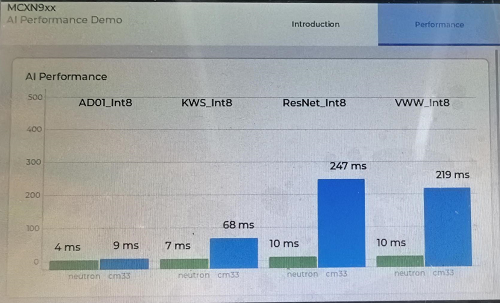
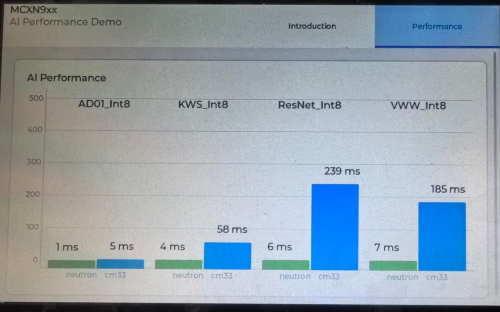
[Fix]: 1. Exclude the model initialization time from the inference time calculation. 2. Update the README.md based on latest result. 3. Enable PRINTF_ADVANCED_ENABLE to improve the PRINTF function. 4. Fix the project configuration issue. [Update]: 1. Update dm-mcxn947-npu-vs-tensorflm-benchmark.xml.

diff --git a/source/model/model.cpp b/source/model/model.cpp
@@ -25,6 +25,7 @@ limitations under the License.
 #include "fsl_debug_console.h"
 #include "model.h"
 #include "model_data.h"
+#include "timer.h"
 
 static const tflite::Model* s_model = nullptr;
 static tflite::MicroInterpreter* s_interpreter = nullptr;
@@ -88,7 +89,7 @@ status_t MODEL_Init(void)
     return kStatus_Success;
 }
 
-status_t MODEL_Invoke(const uint8_t* model_data)
+status_t MODEL_Invoke(const uint8_t* model_data, uint32_t *during)
 {
 
     s_model = tflite::GetModel(model_data);
@@ -118,12 +119,15 @@ status_t MODEL_Invoke(const uint8_t* model_data)
 
     // Get information about the memory area to use for the model's input.
     inputTensor = interpreter.input(0);
-
+    uint32_t startTime = TIMER_GetTimeInUS();
     if (interpreter.Invoke() != kTfLiteOk)
     {
         PRINTF("Invoke failed!\r\n");
         return kStatus_Fail;
     }
+    uint32_t endTime = TIMER_GetTimeInUS();
+
+    *during = endTime - startTime;
 
     return kStatus_Success;
 }

diff --git a/source/ml_perf.c b/source/ml_perf.c
@@ -104,16 +104,15 @@ int run_model(uint8_t id, bool show_profile)
     model_data = mlperf_models[id];
     
     PRINTF("---\r\nRun Model: %s\r\n",mlperf_model_name[id]);
-    uint32_t startTime = TIMER_GetTimeInUS();
-    if (MODEL_Invoke(model_data) != kStatus_Success)
+    uint32_t startTime = 0;
+    if (MODEL_Invoke(model_data,&g_usTotal) != kStatus_Success)
     {
         PRINTF("Failed initializing model" EOL);
         for (;;) {}
     }
-    uint32_t endTime = TIMER_GetTimeInUS();
-    PRINTF("Inference during %d.%03d ms\r\n",(endTime-startTime) / 1000, (endTime-startTime) % 1000);
+
+    PRINTF("Inference during %d.%03d ms\r\n",(g_usTotal) / 1000, (g_usTotal) % 1000);
     
-    g_usTotal = endTime - startTime;
     /* round up the ms */    
     g_msModelCalTime[id] = (g_usTotal % 1000) >= 500? 1:0;
     g_msModelCalTime[id] += g_usTotal / 1000;

diff --git a/source/model/model.h b/source/model/model.h
@@ -40,7 +40,7 @@ uint8_t* MODEL_GetInputTensorData(tensor_dims_t* dims, tensor_type_t* type);
 uint8_t* MODEL_GetOutputTensorData(tensor_dims_t* dims, tensor_type_t* type);
 void MODEL_ConvertInput(uint8_t* data, tensor_dims_t* dims, tensor_type_t type);
 status_t MODEL_RunInference(void);
-status_t MODEL_Invoke(const uint8_t* model_data);
+status_t MODEL_Invoke(const uint8_t* model_data, uint32_t *during);
 const char* MODEL_GetModelName(void);
 
 #if defined(__cplusplus)

diff --git a/utilities/fsl_debug_console.h b/utilities/fsl_debug_console.h
@@ -61,7 +61,7 @@
 
 /*! @brief Definition to support advanced format specifier for printf. */
 #ifndef PRINTF_ADVANCED_ENABLE
-#define PRINTF_ADVANCED_ENABLE 0U
+#define PRINTF_ADVANCED_ENABLE 1U
 #endif /* PRINTF_ADVANCED_ENABLE */
 
 /*! @brief Definition to support advanced format specifier for scanf. */

diff --git a/source/lvgl_demo_widgets_bm.c b/source/lvgl_demo_widgets_bm.c
@@ -159,12 +159,6 @@ int main(void)
 
     DEMO_SetupTick();
 
-//    TIMER_Init();
-//
-//
-//    NVIC_SetPriority(SysTick_IRQn, 1);
-//	NVIC_EnableIRQ(SysTick_IRQn);
-
 	benchmark_run_all(0);
 
 #if LV_USE_LOG

diff --git a/README.md b/README.md
@@ -4,16 +4,15 @@
 ## MCXN947 NPU vs Tensorflm Benchmark
 
 This demo is based on [MLPerf™ Tiny Deep Learning Benchmarks for Embedded Devices](https://github.com/mlcommons/tiny), it shows the performance benchmark between NPU and TensorFLM. 
-Real time results are displayed on TFT LCD, On-chip NPU accelerates AI/ML algorithms and improves the performance.
-Please note that this result is not verified by MLCommons Association.
+Real time results are displayed on TFT LCD, On-chip NPU accelerates AI/ML algorithms and improves the performance. **The results come from internal flash model inference, Optimization Level is -O3.** Please note that this result is not verified by MLCommons Association.
 
 
 |       Use Case       |                   Description                   |       Cortex-M33 Inference time       |    NPU Inference time   |    CM33 / NPU ratio    |
 |----------------------|-------------------------------------------------|---------------------------------------|-------------------------|------------------------|
-|   Anomaly Detection  | Detecting anomalies in machine operating sounds |              9.452ms                  |       4.174ms           |          2.26          |
-|   Keyword Spotting   |        Small vocabulary keyword spotting        |              67.794ms                 |       7.164ms           |          9.46          |
-| Image Classification |            Small image classification           |              247.253ms                |       10.6ms            |         23.33          |
-|   Visual Wake Words  |           Binary image classification           |              218.563ms                |       10.169ms          |         21.49          |
+|   Anomaly Detection  | Detecting anomalies in machine operating sounds |              5.302ms                  |       0.816ms           |          6.50          |
+|   Keyword Spotting   |        Small vocabulary keyword spotting        |              57.514ms                 |       3.650ms           |         15.76          |
+| Image Classification |            Small image classification           |              239.036ms                |       6.399ms           |         37.36          |
+|   Visual Wake Words  |           Binary image classification           |              184.935ms                |       6.568ms           |         28.16          |
 
 >**Note**: Unverified MLPerf® Tiny v1.0. Result not verified by MLCommons Association. The MLPerf name and logo are registered and unregistered trademarks of MLCommons Association in the United States and other countries. All rights reserved. Unauthorized use strictly prohibited. See www.mlcommons.org for more information. 
 
